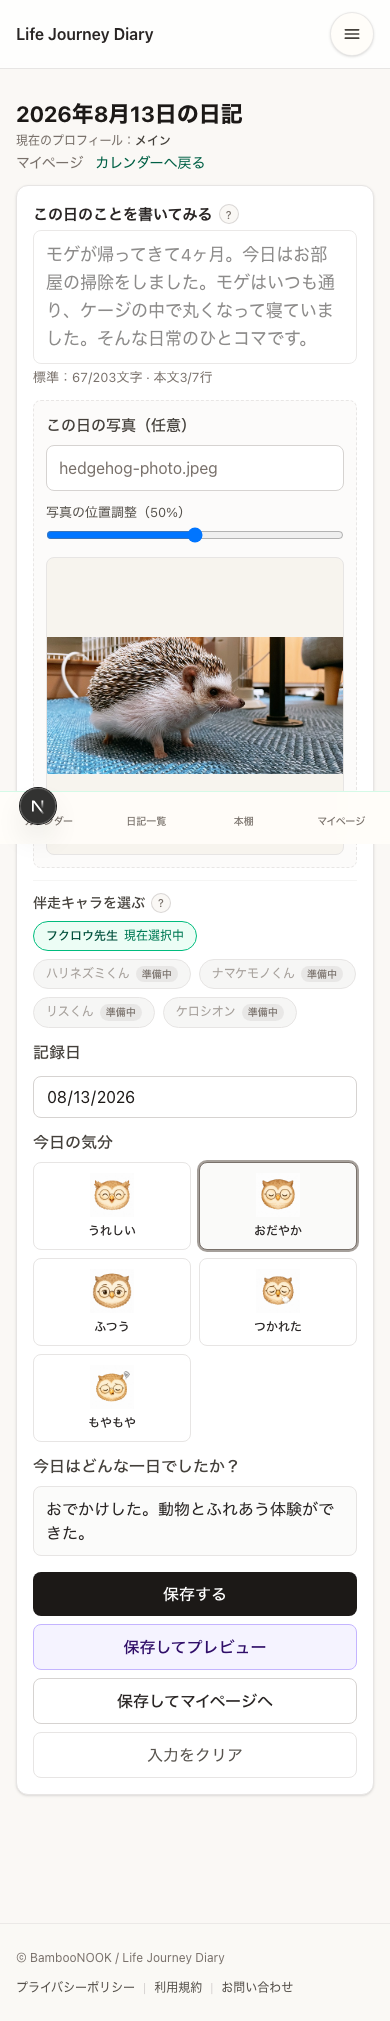
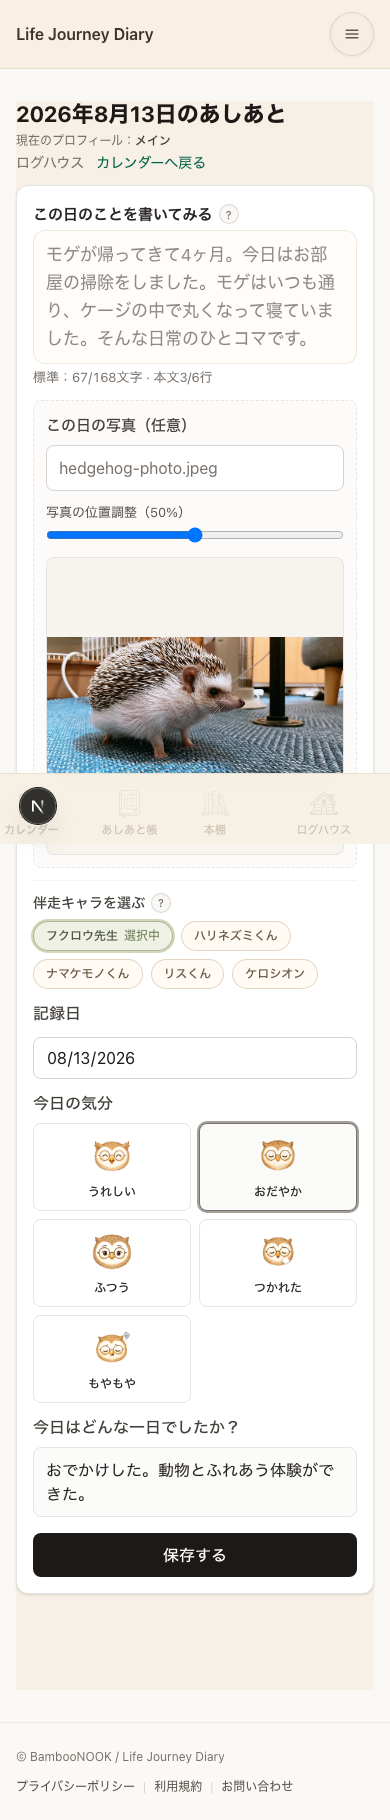
Refresh user-facing mockups with ashiato terminology
Recapture home product mocks from ashiato-labelled preview routes and keep marketing screenshots free of guest onboarding chrome.

diff --git a/scripts/capture-home-mock-screenshot.ts b/scripts/capture-home-mock-screenshot.ts
@@ -169,8 +169,10 @@ async function captureTarget(
   baseUrl: string,
   target: (typeof TARGETS)[TargetKey],
   auto: boolean,
+  outputDir: string,
+  updateAssets: boolean,
 ): Promise<{ width: number; height: number; outputPath: string }> {
-  const outputPath = join(process.cwd(), "public/images/home-mock", target.outputFile);
+  const outputPath = join(outputDir, target.outputFile);
   mkdirSync(dirname(outputPath), { recursive: true });
 
   const url = auto ? `${baseUrl}${target.previewPath}` : `${baseUrl}${target.path}`;
@@ -218,7 +220,11 @@ async function captureTarget(
     throw new Error(`幅が 350px 未満です (${width}px)。撮影に失敗した可能性があります。`);
   }
 
-  updateHomeProductMockAssets(target.assetsKey, width, height);
+  if (updateAssets) {
+    updateHomeProductMockAssets(target.assetsKey, width, height);
+  } else {
+    console.log(`assets 更新スキップ（一時出力先: ${outputDir}）`);
+  }
   return { width, height, outputPath };
 }
 
@@ -235,6 +241,10 @@ async function main() {
   }
 
   const baseUrl = process.env.MOCK_CAPTURE_BASE_URL?.trim() || "http://127.0.0.1:3000";
+  const outputDir =
+    process.env.MOCK_CAPTURE_OUT_DIR?.trim() ||
+    join(process.cwd(), "public/images/home-mock");
+  const updateAssets = !process.env.MOCK_CAPTURE_OUT_DIR?.trim();
   const keys: TargetKey[] =
     targetArg === "all"
       ? (["journal", "journalPreview", "bookshelf", "diaryBook"] as TargetKey[])
@@ -242,6 +252,8 @@ async function main() {
 
   console.log(`モード: ${auto ? "自動（ログイン不要）" : "手動（ログイン必要）"}`);
   console.log(`ベースURL: ${baseUrl}`);
+  console.log(`出力先: ${outputDir}`);
+  console.log(`assets 更新: ${updateAssets ? "する" : "しない"}`);
   console.log(`ビューポート: ${VIEWPORT_WIDTH} x ${VIEWPORT_HEIGHT}`);
   console.log("");
 
@@ -269,7 +281,7 @@ async function main() {
       const target = TARGETS[key];
       console.log("");
       console.log(`--- ${target.label} ---`);
-      const result = await captureTarget(page, baseUrl, target, auto);
+      const result = await captureTarget(page, baseUrl, target, auto, outputDir, updateAssets);
       console.log(`保存: ${result.outputPath}`);
       console.log(`サイズ: ${result.width} x ${result.height}px`);
     }

diff --git a/src/app/home-mock-preview/layout.tsx b/src/app/home-mock-preview/layout.tsx
@@ -1,6 +1,15 @@
-import { DiaryLoggedInPageShell } from "@/components/journal/DiaryLoggedInPageShell";
+import { DiaryHomeBottomNav } from "@/components/journal/DiaryHomeBottomNav";
+import { LJD_PAGE_BG_CLASS } from "@/lib/ljd/ljdPaperSurface";
 
-/** トップ用モック撮影：日記画面と同じ下部メニューを含める */
+/**
+ * トップ用モック撮影：あしあと画面と同じ下部メニューを含める。
+ * オンボーディング誘導バナーは入れない（商用スクショにゲスト向け道しるべが出ないようにする）。
+ */
 export default function HomeMockPreviewLayout({ children }: { children: React.ReactNode }) {
-  return <DiaryLoggedInPageShell>{children}</DiaryLoggedInPageShell>;
+  return (
+    <div className={["pb-24", LJD_PAGE_BG_CLASS, "min-h-[100dvh]"].join(" ")}>
+      {children}
+      <DiaryHomeBottomNav />
+    </div>
+  );
 }

diff --git a/src/lib/journal/journalRecordDateDisplay.ts b/src/lib/journal/journalRecordDateDisplay.ts
@@ -24,14 +24,14 @@ export function isJournalEntryDateToday(entryDate: string): boolean {
   return entryDate === localTodayDateInputValue();
 }
 
-/** 例: 2026年5月26日の日記 */
+/** 例: 2026年5月26日のあしあと */
 export function formatJournalRecordPageTitle(entryDate: string): string {
   if (!isValidJournalDateInput(entryDate)) return "あしあと";
   const [y, m, d] = entryDate.split("-").map(Number);
   return `${y}年${m}月${d}日のあしあと`;
 }
 
-/** 日記プレビュー見出し用（例: 2026年6月16日） */
+/** あしあとプレビュー見出し用（例: 2026年6月16日） */
 export function formatJournalPreviewDateHeading(value: string | number | Date): string {
   const d =
     typeof value === "string" || typeof value === "number" ? new Date(value) : value;

diff --git a/src/lib/home/homeProductMockAssets.ts b/src/lib/home/homeProductMockAssets.ts
@@ -39,7 +39,7 @@ export const HOME_PRODUCT_MOCK_STEPS: HomeProductMockStep[] = [
     imageSrc: HOME_PRODUCT_MOCK_IMAGES.journalEntry,
     imageAlt: "あしあと入力画面",
     imageWidth: 390,
-    imageHeight: 2021,
+    imageHeight: 1820,
     frame: "phone",
   },
   {
@@ -50,7 +50,7 @@ export const HOME_PRODUCT_MOCK_STEPS: HomeProductMockStep[] = [
     imageSrc: HOME_PRODUCT_MOCK_IMAGES.journalPreview,
     imageAlt: "あしあとプレビュー画面",
     imageWidth: 390,
-    imageHeight: 1466,
+    imageHeight: 1567,
     frame: "phone",
   },
   {
